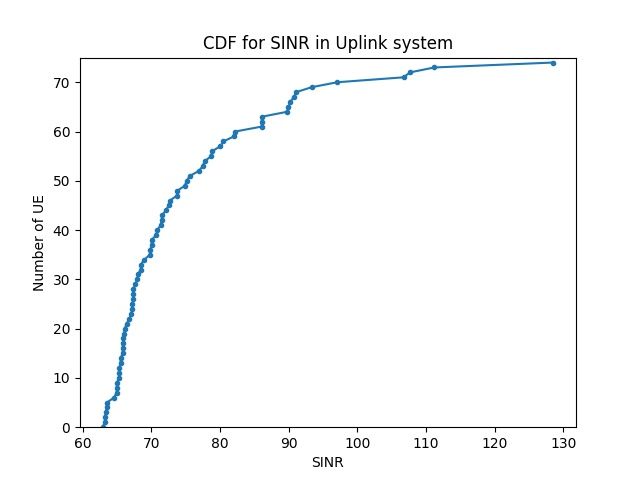
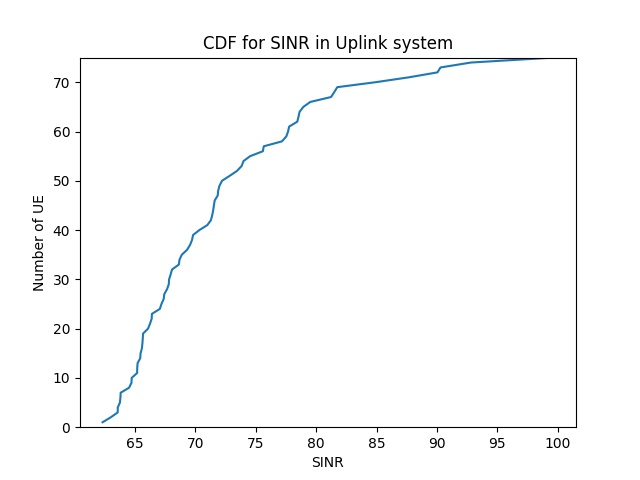
fix plot

diff --git a/src/hw5/prob1.py b/src/hw5/prob1.py
@@ -214,16 +214,13 @@ if __name__ == "__main__":
     ################1-2-a################
 
     sinr_lst = []
-    count_lst = []
-    count = 0
+    count_lst = [i for i in range(1, UE_NUM + 1)]
     for ue in cent_bs.ue:
         if ue._recv == 0:
             up_p = up_rxp(ue._dis)
             sinr_lst.append(Sinr(up_p, 0))
-            count_lst.append(count)
-            count += 1
     sinr_lst.sort()
-    plt.plot(sinr_lst, count_lst, marker='.')
+    plt.plot(sinr_lst, count_lst)
     plt.title('CDF for SINR in Uplink system')
     plt.xlabel('SINR')
     plt.ylabel('Number of UE')
@@ -235,8 +232,7 @@ if __name__ == "__main__":
     ################1-2-b################
 
     sinr_lst = []
-    count_lst = []
-    count = 0
+    count_lst = [i for i in range(1, UE_NUM + 1)]
     for ue in cent_bs.ue:
         if ue._recv == 0:
             down_p = down_rxp(ue._dis)
@@ -245,10 +241,8 @@ if __name__ == "__main__":
                 dis = sqrt((clus.bs[j].x - ue.x) ** 2 + (clus.bs[j].y - ue.y) ** 2)
                 inf_p += db_to_int(down_rxp(dis))
             sinr_lst.append(Sinr(down_p, inf_p))
-            count_lst.append(count)
-            count += 1
     sinr_lst.sort()
-    plt.plot(sinr_lst, count_lst, marker='.')
+    plt.plot(sinr_lst, count_lst)
     plt.title('CDF for SINR in Downlink system')
     plt.xlabel('SINR')
     plt.ylabel('Number of UE')
@@ -267,8 +261,7 @@ if __name__ == "__main__":
 
     ################1-4################
     sinr_lst = []
-    count_lst = []
-    count = 0
+    count_lst = [i for i in range(1, UE_NUM + 1)]
     for ue in cent_bs.ue:
         if ue._recv == 1:
             d2d_p = 0
@@ -279,11 +272,9 @@ if __name__ == "__main__":
             dis = sqrt((ue.x - ue._tx.x) ** 2 + (ue.y - ue._tx.y) ** 2)
             up_p = up_rxp_d2d(dis)
             sinr_lst.append(Sinr(up_p, d2d_p - db_to_int(up_p)))
-            count_lst.append(count)
-            count += 1
     sinr_lst.sort()
 
-    plt.plot(sinr_lst, count_lst, marker='.')
+    plt.plot(sinr_lst, count_lst)
     plt.title('CDF for SINR in D2D system')
     plt.xlabel('SINR')
     plt.ylabel('Number of UE')
@@ -311,8 +302,7 @@ if __name__ == "__main__":
         cent_bs = clus.bs[0]
         cent_bs.gen_ue()
         sinr_lst = []
-        count_lst = []
-        count = 0
+        count_lst = [i for i in range(1, UE_NUM + 1)]
         for ue in cent_bs.ue:
             if ue._recv == 1:
                 d2d_p = 0
@@ -323,8 +313,6 @@ if __name__ == "__main__":
                 dis = sqrt((ue.x - ue._tx.x) ** 2 + (ue.y - ue._tx.y) ** 2)
                 up_p = up_rxp_d2d(dis)
                 sinr_lst.append(Sinr(up_p, (d2d_p - db_to_int(up_p))))
-                count_lst.append(count)
-                count += 1
         sinr_lst.sort()
         rate = 0
         for sinr in sinr_lst:
